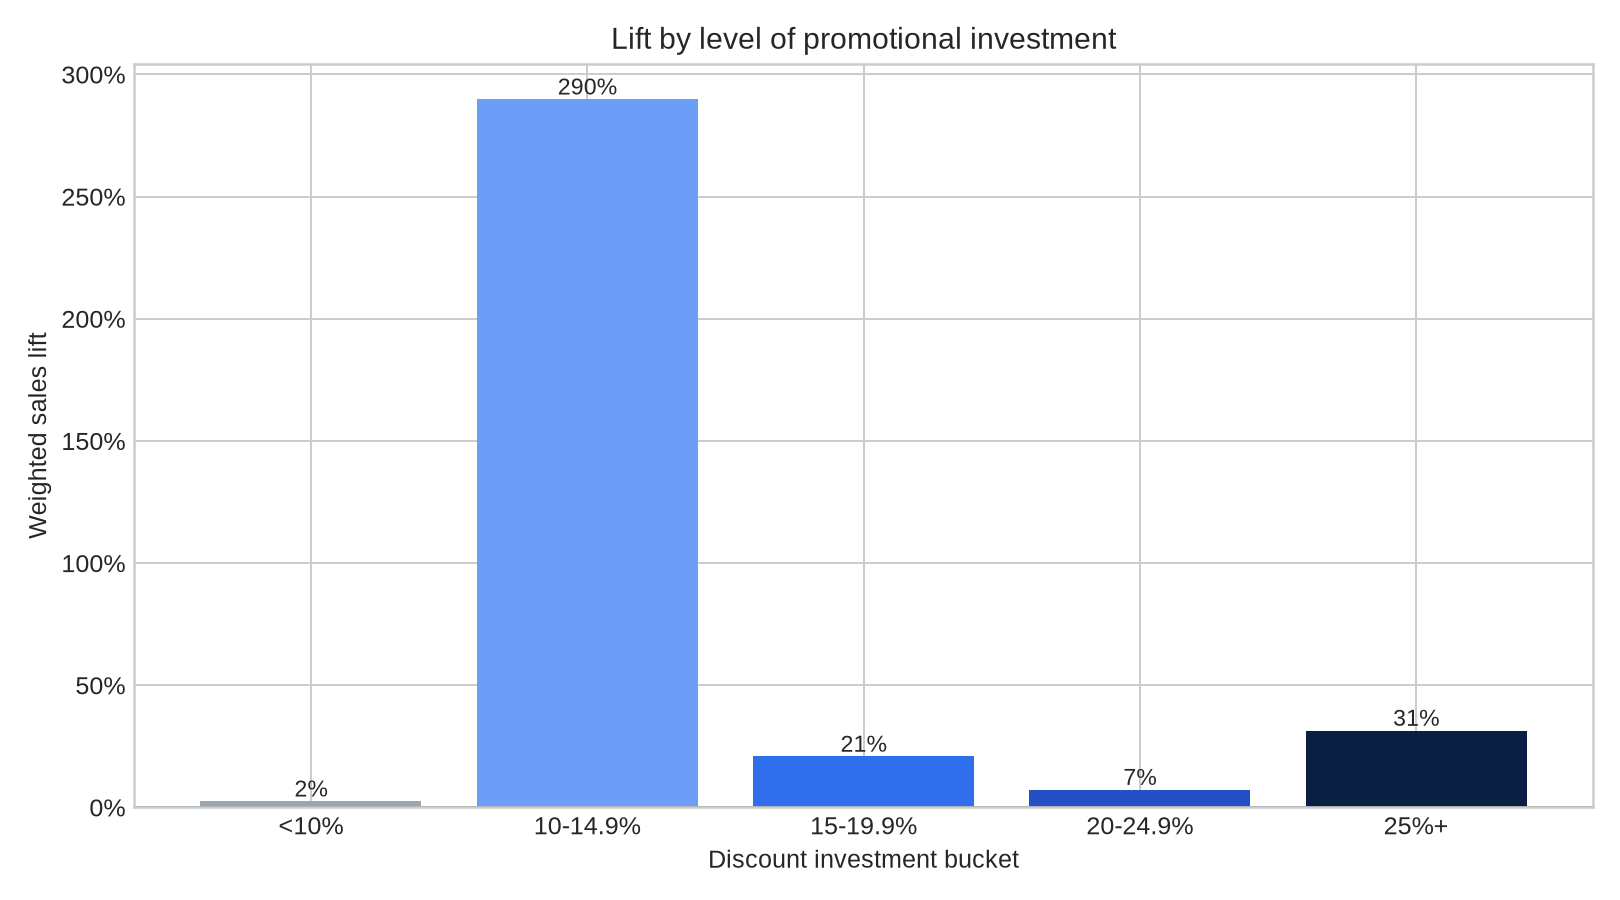
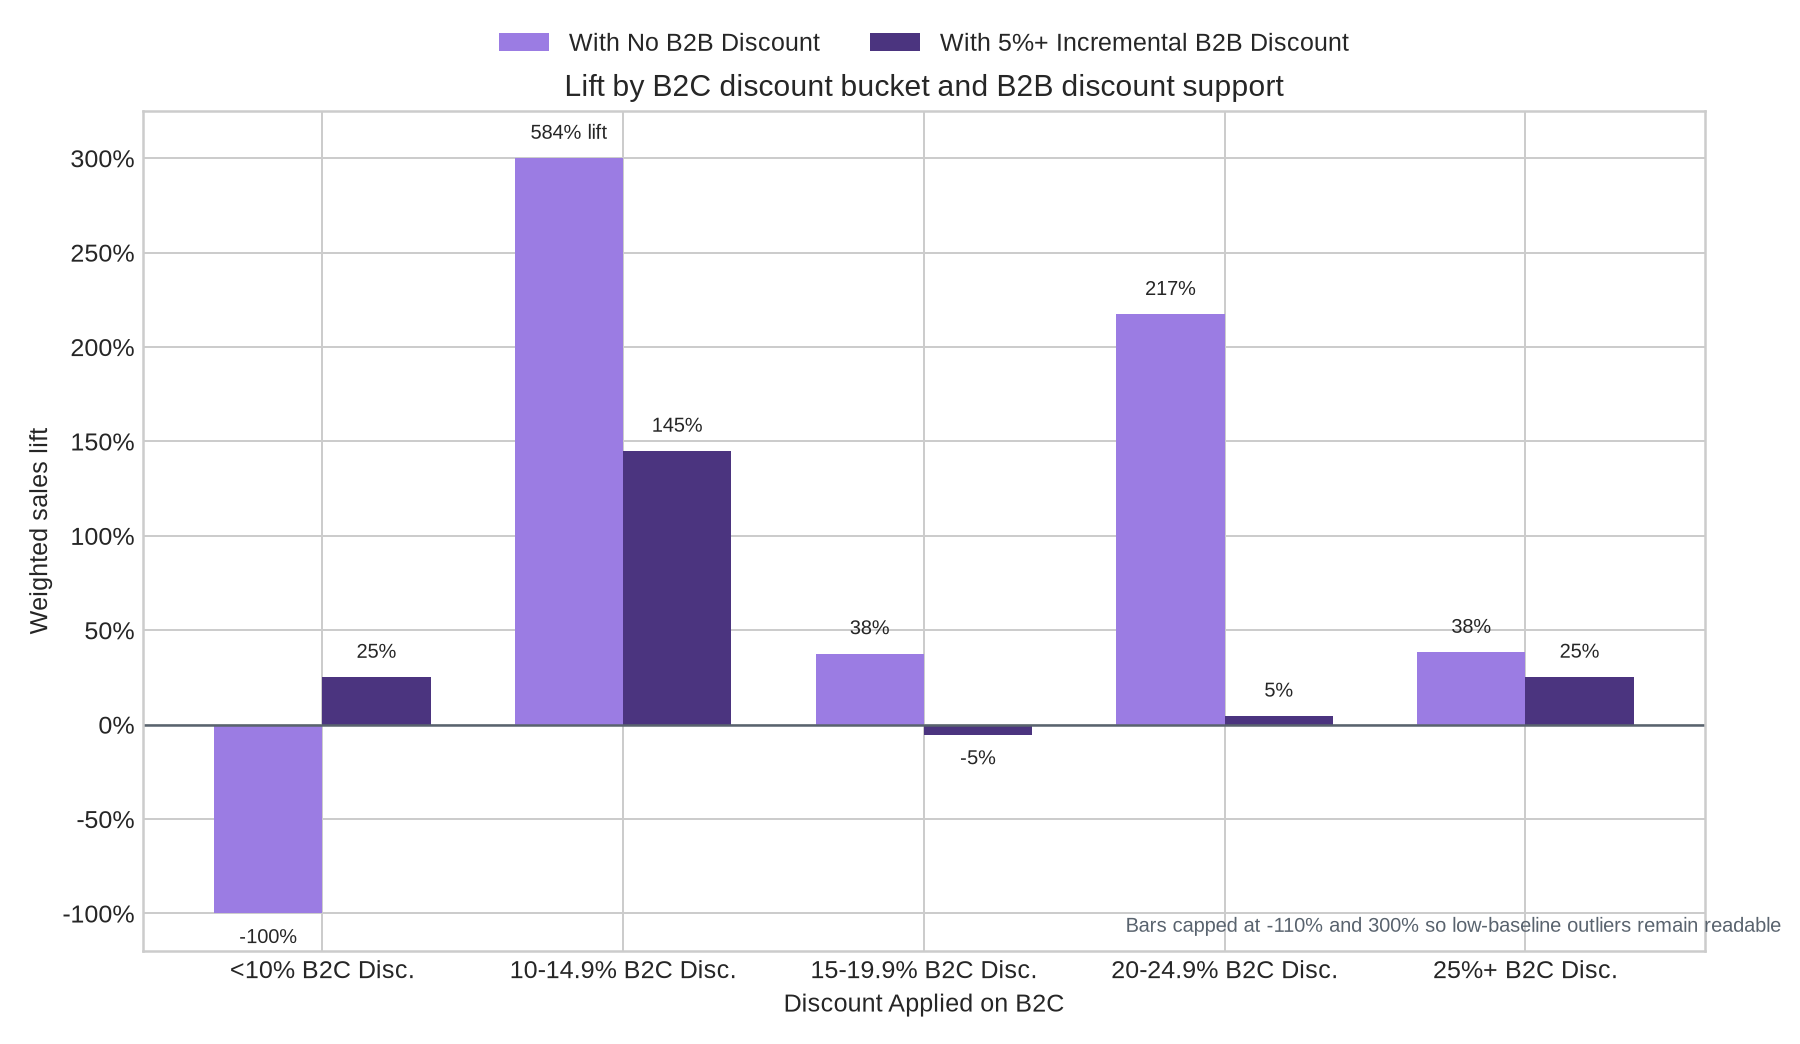
Group discount bucket lift by B2B support

diff --git a/analysis/member_monday/build_case_study.py b/analysis/member_monday/build_case_study.py
@@ -65,6 +65,10 @@ KNOWN_CLASSES = {
 }
 
 DISCOUNT_BUCKET_LABELS = ["<10%", "10-14.9%", "15-19.9%", "20-24.9%", "25%+"]
+B2B_SEGMENT_LABELS = [
+    "With No B2B Discount",
+    "With 5%+ Incremental B2B Discount",
+]
 
 
 def parse_currency(value: object) -> float:
@@ -273,6 +277,41 @@ def build_discount_buckets(df: pd.DataFrame) -> pd.DataFrame:
     return summary.sort_values("discount_bucket")
 
 
+def add_b2b_bucket_segments(df: pd.DataFrame) -> pd.DataFrame:
+    bucketed = df.copy()
+    bucketed["discount_bucket"] = pd.cut(
+        bucketed["discount_pct"],
+        bins=[-math.inf, 0.0999, 0.1499, 0.1999, 0.2499, math.inf],
+        labels=DISCOUNT_BUCKET_LABELS,
+    )
+    incremental_b2b_pct = (
+        bucketed["b2b_discount_pct"].fillna(bucketed["discount_pct"])
+        - bucketed["discount_pct"]
+    ).clip(lower=0)
+    bucketed["incremental_b2b_discount_pct"] = incremental_b2b_pct
+    bucketed["b2b_support_segment"] = incremental_b2b_pct.map(
+        lambda value: B2B_SEGMENT_LABELS[1] if value >= 0.05 else B2B_SEGMENT_LABELS[0]
+    )
+    return bucketed
+
+
+def build_b2b_discount_buckets(df: pd.DataFrame) -> pd.DataFrame:
+    summary = summarize(
+        add_b2b_bucket_segments(df), ["discount_bucket", "b2b_support_segment"]
+    )
+    summary["discount_bucket"] = pd.Categorical(
+        summary["discount_bucket"].astype(str),
+        categories=DISCOUNT_BUCKET_LABELS,
+        ordered=True,
+    )
+    summary["b2b_support_segment"] = pd.Categorical(
+        summary["b2b_support_segment"].astype(str),
+        categories=B2B_SEGMENT_LABELS,
+        ordered=True,
+    )
+    return summary.sort_values(["discount_bucket", "b2b_support_segment"])
+
+
 def save_chart_class_sales(class_summary: pd.DataFrame, out: Path) -> None:
     plot_df = class_summary.sort_values("member_monday_sales")
     y = range(len(plot_df))
@@ -395,26 +434,81 @@ def save_chart_supplier_scatter(supplier_summary: pd.DataFrame, out: Path) -> No
 
 def save_chart_discount_buckets(bucket_summary: pd.DataFrame, out: Path) -> None:
     plot_df = bucket_summary.copy()
-    fig, ax = plt.subplots(figsize=(9, 5))
-    bars = ax.bar(
+    plot_df["discount_bucket"] = pd.Categorical(
         plot_df["discount_bucket"].astype(str),
-        plot_df["weighted_lift_pct"] * 100,
-        color=["#9aa6b2", "#6c9df7", "#2f6fed", "#244fc7", "#0b1f44"],
+        categories=DISCOUNT_BUCKET_LABELS,
+        ordered=True,
+    )
+    plot_df["b2b_support_segment"] = pd.Categorical(
+        plot_df["b2b_support_segment"].astype(str),
+        categories=B2B_SEGMENT_LABELS,
+        ordered=True,
+    )
+    pivot = plot_df.pivot(
+        index="discount_bucket",
+        columns="b2b_support_segment",
+        values="weighted_lift_pct",
+    ).reindex(DISCOUNT_BUCKET_LABELS)
+    display = (pivot * 100).clip(lower=-110, upper=300)
+
+    x_positions = list(range(len(display)))
+    width = 0.36
+    fig, ax = plt.subplots(figsize=(10, 5.8))
+    no_b2b_bars = ax.bar(
+        [x - width / 2 for x in x_positions],
+        display[B2B_SEGMENT_LABELS[0]].fillna(0),
+        width=width,
+        label=B2B_SEGMENT_LABELS[0],
+        color="#9b7ce3",
+    )
+    b2b_bars = ax.bar(
+        [x + width / 2 for x in x_positions],
+        display[B2B_SEGMENT_LABELS[1]].fillna(0),
+        width=width,
+        label=B2B_SEGMENT_LABELS[1],
+        color="#4b347f",
     )
     ax.axhline(0, color="#59636e", linewidth=1)
-    ax.set_xlabel("Discount investment bucket")
+    ax.set_xticks(x_positions, [f"{label} B2C Disc." for label in DISCOUNT_BUCKET_LABELS])
+    ax.set_xlabel("Discount Applied on B2C")
     ax.set_ylabel("Weighted sales lift")
-    ax.set_title("Lift by level of promotional investment")
+    ax.set_title("Lift by B2C discount bucket and B2B discount support")
     ax.yaxis.set_major_formatter(lambda y, _pos: f"{y:.0f}%")
-    for bar, row in zip(bars, plot_df.itertuples(), strict=True):
-        ax.text(
-            bar.get_x() + bar.get_width() / 2,
-            bar.get_height(),
-            f"{row.weighted_lift_pct * 100:.0f}%",
-            ha="center",
-            va="bottom" if row.weighted_lift_pct >= 0 else "top",
-            fontsize=9,
-        )
+    ax.set_ylim(-120, 325)
+    ax.legend(loc="upper center", bbox_to_anchor=(0.5, 1.12), ncol=2, frameon=False)
+
+    for bars, segment in [
+        (no_b2b_bars, B2B_SEGMENT_LABELS[0]),
+        (b2b_bars, B2B_SEGMENT_LABELS[1]),
+    ]:
+        for idx, bar in enumerate(bars):
+            actual = pivot.loc[DISCOUNT_BUCKET_LABELS[idx], segment]
+            if pd.isna(actual):
+                continue
+            actual_pct = actual * 100
+            label = f"{actual_pct:.0f}%"
+            if actual_pct > 300:
+                label += " lift"
+            if actual_pct < -110:
+                label += " lift"
+            height = bar.get_height()
+            ax.text(
+                bar.get_x() + bar.get_width() / 2,
+                height + (8 if height >= 0 else -8),
+                label,
+                ha="center",
+                va="bottom" if height >= 0 else "top",
+                fontsize=8,
+            )
+    ax.text(
+        len(display) - 0.15,
+        -112,
+        "Bars capped at -110% and 300% so low-baseline outliers remain readable",
+        ha="right",
+        va="bottom",
+        fontsize=8,
+        color="#59636e",
+    )
     fig.tight_layout()
     fig.savefig(out, dpi=180)
     plt.close(fig)
@@ -608,6 +702,7 @@ def write_report(
     class_summary: pd.DataFrame,
     supplier_summary: pd.DataFrame,
     bucket_summary: pd.DataFrame,
+    b2b_bucket_summary: pd.DataFrame,
     source_totals: dict[str, float] | None = None,
 ) -> None:
     extracted_baseline = float(sku_df["l10_non_promo_daily_avg"].sum())
@@ -726,6 +821,8 @@ Member Monday generated **{fmt_currency_2(sales)}** in participating SKU sales v
 
 The investment story is not purely "deeper discount equals better lift." Mid- and higher-discount buckets both produced wins, but SKU relevance and baseline demand materially shaped outcomes. This is a useful supplier message: Member Monday works best when suppliers fund a compelling offer **and** nominate SKUs with enough demand signal to convert loyalty traffic.
 
+The chart above splits each B2C discount bucket into two groups: SKUs with no incremental B2B discount and SKUs where B2B was at least 5 percentage points deeper than the B2C discount. This makes it easier to show suppliers how extra B2B support performed inside each B2C discount level.
+
 ![Supplier lift vs investment](charts/supplier_lift_vs_investment.png)
 
 ## Supplier-level insights
@@ -775,6 +872,7 @@ The investment story is not purely "deeper discount equals better lift." Mid- an
 - `class_summary.csv`: class-level performance and investment metrics.
 - `supplier_summary.csv`: supplier-level performance and investment metrics.
 - `discount_bucket_summary.csv`: lift by supplier discount-investment bucket.
+- `b2b_discount_bucket_summary.csv`: lift by B2C discount bucket split by B2B discount support.
 - `member_monday_case_study.xlsx`: workbook with all summary tabs.
 - `charts/*.png`: visual assets for supplier-facing materials.
 """
@@ -796,11 +894,15 @@ def main() -> None:
     class_summary = summarize(sku_df, ["class_name"])
     supplier_summary = summarize(sku_df, ["supplier_id", "supplier_name", "srm"])
     bucket_summary = build_discount_buckets(sku_df)
+    b2b_bucket_summary = build_b2b_discount_buckets(sku_df)
 
     sku_df.to_csv(args.out / "member_monday_sku_data.csv", index=False)
     class_summary.to_csv(args.out / "class_summary.csv", index=False)
     supplier_summary.to_csv(args.out / "supplier_summary.csv", index=False)
     bucket_summary.to_csv(args.out / "discount_bucket_summary.csv", index=False)
+    b2b_bucket_summary.to_csv(
+        args.out / "b2b_discount_bucket_summary.csv", index=False
+    )
 
     with pd.ExcelWriter(args.out / "member_monday_case_study.xlsx") as writer:
         metric_definitions().to_excel(
@@ -810,13 +912,18 @@ def main() -> None:
         class_summary.to_excel(writer, sheet_name="Class Summary", index=False)
         supplier_summary.to_excel(writer, sheet_name="Supplier Summary", index=False)
         bucket_summary.to_excel(writer, sheet_name="Discount Buckets", index=False)
+        b2b_bucket_summary.to_excel(
+            writer, sheet_name="B2B Bucket Lift", index=False
+        )
 
     plt.style.use("seaborn-v0_8-whitegrid")
     save_chart_class_sales(class_summary, charts_dir / "class_sales_lift.png")
     save_chart_supplier_scatter(
         supplier_summary, charts_dir / "supplier_lift_vs_investment.png"
     )
-    save_chart_discount_buckets(bucket_summary, charts_dir / "discount_bucket_lift.png")
+    save_chart_discount_buckets(
+        b2b_bucket_summary, charts_dir / "discount_bucket_lift.png"
+    )
     save_chart_top_incremental(
         supplier_summary, charts_dir / "top_supplier_incremental_sales.png"
     )
@@ -826,6 +933,7 @@ def main() -> None:
         class_summary,
         supplier_summary,
         bucket_summary,
+        b2b_bucket_summary,
         source_totals,
     )
 

diff --git a/analysis/member_monday/output/Member_Monday_Loyalty_Lift_Case_Study.md b/analysis/member_monday/output/Member_Monday_Loyalty_Lift_Case_Study.md
@@ -55,6 +55,8 @@ Member Monday generated **$11,116.60** in participating SKU sales versus a recen
 
 The investment story is not purely "deeper discount equals better lift." Mid- and higher-discount buckets both produced wins, but SKU relevance and baseline demand materially shaped outcomes. This is a useful supplier message: Member Monday works best when suppliers fund a compelling offer **and** nominate SKUs with enough demand signal to convert loyalty traffic.
 
+The chart above splits each B2C discount bucket into two groups: SKUs with no incremental B2B discount and SKUs where B2B was at least 5 percentage points deeper than the B2C discount. This makes it easier to show suppliers how extra B2B support performed inside each B2C discount level.
+
 ![Supplier lift vs investment](charts/supplier_lift_vs_investment.png)
 
 ## Supplier-level insights
@@ -108,5 +110,6 @@ The investment story is not purely "deeper discount equals better lift." Mid- an
 - `class_summary.csv`: class-level performance and investment metrics.
 - `supplier_summary.csv`: supplier-level performance and investment metrics.
 - `discount_bucket_summary.csv`: lift by supplier discount-investment bucket.
+- `b2b_discount_bucket_summary.csv`: lift by B2C discount bucket split by B2B discount support.
 - `member_monday_case_study.xlsx`: workbook with all summary tabs.
 - `charts/*.png`: visual assets for supplier-facing materials.
